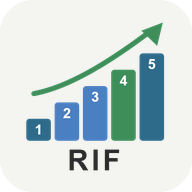
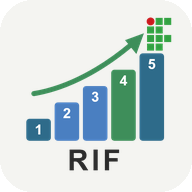
feat: marca RIF v2 com o simbolo do IFMG

Changed region(s): [[0.6562, 0.0625, 0.9062, 0.2812], [0.2188, 0.25, 0.6562, 0.5]]

diff --git a/index.html b/index.html
@@ -86,7 +86,7 @@
 <div class="wrap">
   <h1>Rumo ao IFMG</h1>
   <div class="sub">
-    <img class="marca" src="_icones/marca-rif.svg" alt="Marca do Rumo ao IFMG: cinco degraus numerados e uma seta que sobe" width="112" height="112">
+    <img class="marca" src="_icones/marca-rif.svg" alt="Marca do Rumo ao IFMG: cinco degraus numerados e uma seta que sobe até o símbolo do IFMG" width="112" height="112">
     <section>
       <h2 class="intro-t">Seu caminho até o IFMG</h2>
       <p>Este site ajuda você, do 9.º ano, a se preparar para o <strong>processo seletivo dos cursos técnicos

diff --git a/sw.js b/sw.js
@@ -1,7 +1,7 @@
 /* sw.js — service worker do rif-oa. Gerado por _site/gerar_site_rif.py — nao editar a mao.
  * Rede primeiro, cache so para o aparelho sem internet (molde lme-oa).
  * O nome do cache muda a cada geracao: o activate apaga os anteriores. */
-var CACHE = 'rif-oa-20260925-144809';
+var CACHE = 'rif-oa-20260925-151619';
 
 self.addEventListener('install', function (e) {
   self.skipWaiting();
